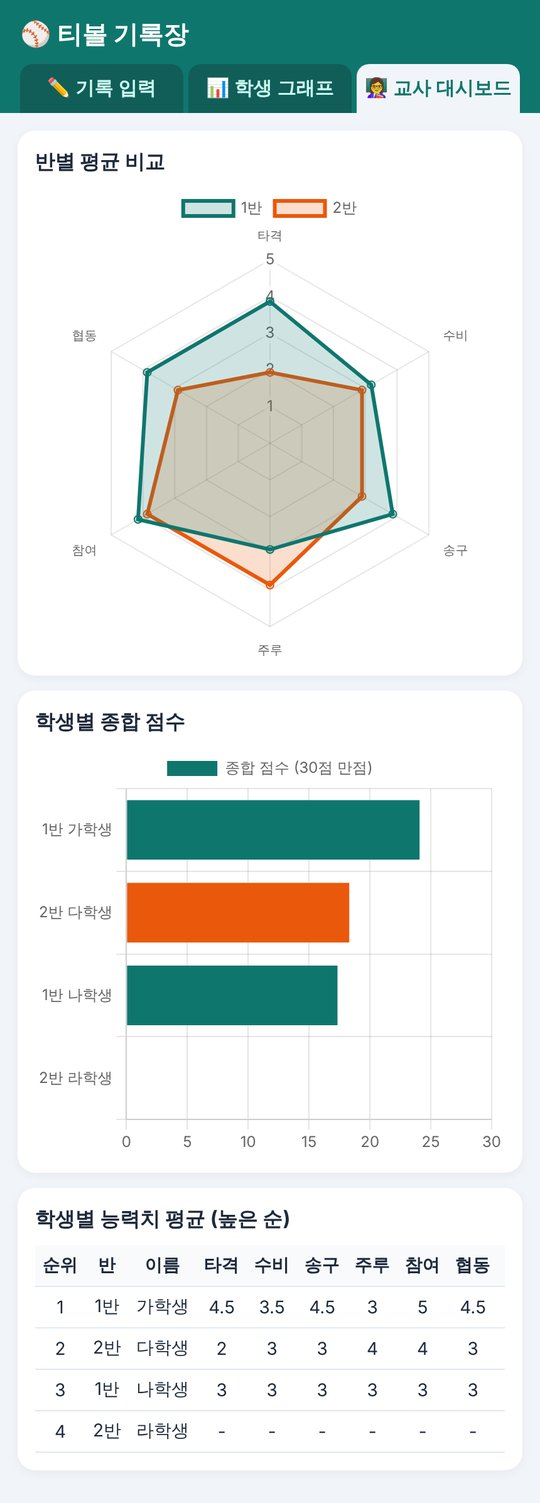
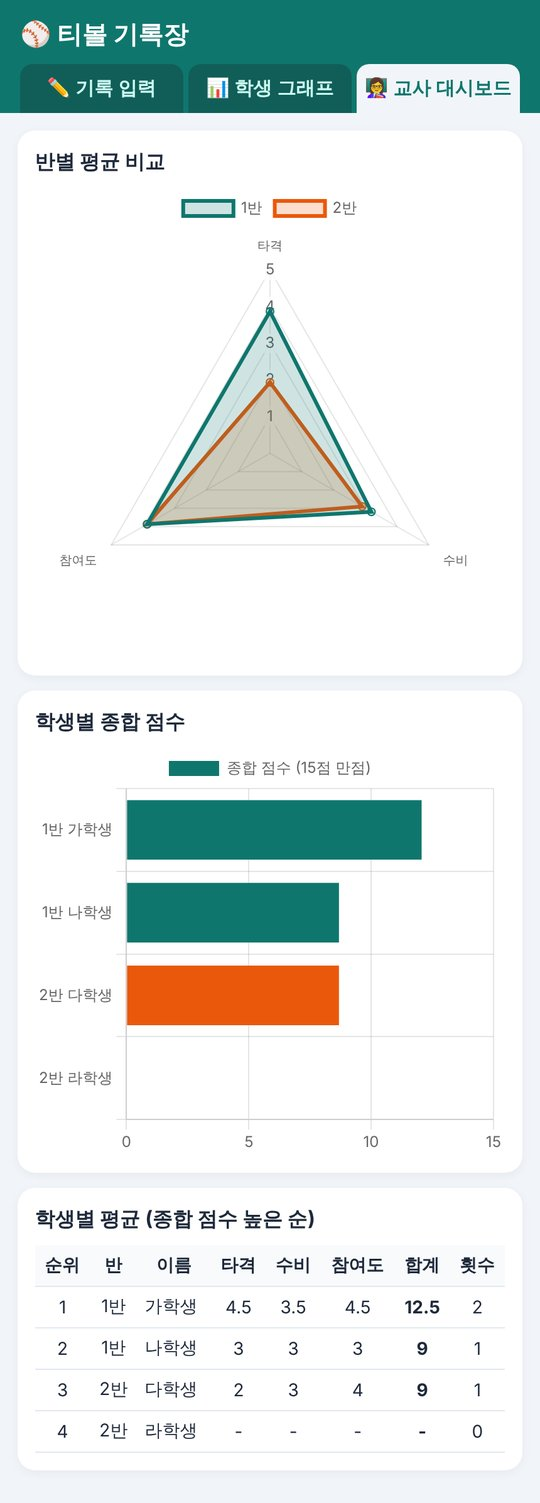
종합 실습 조건 변경 반영: 기본 2개·타격/수비/참여도 — 채점 기준·배점(40+20+20+20), 모범 프롬프트·코드·화면
Claude-Session: https://claude.ai/code/session_01G9uCcbWnGCZD8tybkARKVP

diff --git a/vibe-site/vercel-site/api/review.js b/vibe-site/vercel-site/api/review.js
@@ -6,26 +6,23 @@
 const { limited, cors, bodyOf } = require('./_groq');
 const { askGemini } = require('./_gemini');
 
+// 배점: 기본 40 (2개 × 20) + 심화 1·2·3 각 20 (2개 × 10) = 100점. 부분 통과는 절반.
 const RUBRIC = [
-  { level: 'basic', id: 'b1', text: '명렬표(반·번호·이름) 시트에서 학생 목록을 읽어, 이름을 타이핑하지 않고 선택해서 기록한다',
-    rule: 'pass: 서버가 시트에서 명단을 읽어(getValues 등) 화면이 반·학생을 단추/목록으로 고르게 함. partial: 명단을 코드에 직접 적어 두었거나, 고르기는 되지만 반 구분이 없음. fail: 이름을 글자로 입력함' },
-  { level: 'basic', id: 'b2', text: '입력한 기록이 구글 시트에 저장되어 사라지지 않고 계속 쌓인다',
-    rule: 'pass: 저장 함수가 appendRow/setValues 로 새 줄을 더함(덮어쓰지 않음). partial: 저장은 되지만 같은 칸을 덮어써 누적이 안 됨. fail: 시트에 쓰지 않음(변수·localStorage 만)' },
-  { level: 'basic', id: 'b3', text: '두 선생님이 각자 접속해도 같은 기록을 본다 (브라우저 저장소가 아니라 시트에 저장·조회)',
-    rule: 'pass: 화면이 기록을 서버(시트)에서 다시 읽어 옴. partial: 시트에 쓰기는 하지만 화면은 자기 브라우저에 입력한 것만 보여 줌. fail: localStorage·변수에만 둠' },
-  { level: 'basic', id: 'b4', text: '웹앱 링크 하나로 접속할 수 있다 (doGet 으로 화면 제공, google.script.run 으로 연결)',
-    rule: 'pass: doGet 이 HtmlService 로 index 를 돌려주고 화면이 google.script.run 으로 서버 함수를 부름. partial: 둘 중 하나가 빠졌거나 이름이 맞지 않음(없는 함수 호출). fail: doGet 없음' },
-  { level: 'd1', id: 'd1a', text: '학생 이름을 누르면 그 학생의 누적 기록이 그래프로 표시된다',
-    rule: 'pass: 학생을 고르면 그 학생의 여러 회 기록(평균·합계·추이)을 그래프로 그림. partial: 그래프는 있으나 마지막 한 번 기록만 보이거나 학생별로 나뉘지 않음. fail: 학생별 그래프 없음' },
-  { level: 'd1', id: 'd1b', text: '방사형(레이더) 그래프로 능력치를 표현한다 (막대·선 그래프면 부분 인정)',
+  { level: 'basic', id: 'b1', pts: 20, text: '명렬표(반·번호·이름)의 학생을 선택하고 수업 중 기록을 입력할 수 있다',
+    rule: 'pass: 서버가 시트에서 명단을 읽어(getValues 등) 화면이 반·학생을 단추/목록으로 고르게 하고, 기록을 입력해 저장 함수로 보냄(웹앱으로 열리고 google.script.run 연결이 동작). partial: 명단을 코드에 직접 적어 두었거나, 반 구분이 없거나, 화면이 부르는 서버 함수가 없어 동작하지 않음. fail: 이름을 글자로 입력함 / 입력 화면 없음' },
+  { level: 'basic', id: 'b2', pts: 20, text: '입력한 기록이 사라지지 않고 한곳(구글 시트)에 계속 쌓인다',
+    rule: 'pass: 저장 함수가 appendRow/setValues 로 시트에 새 줄을 더함(덮어쓰지 않음). partial: 저장은 되지만 같은 칸을 덮어써 누적이 안 됨. fail: 시트에 쓰지 않음(변수·localStorage 만)' },
+  { level: 'd1', id: 'd1a', pts: 10, text: '학생 이름을 누르면 그 학생의 누적 기록이 그래프로 표시된다',
+    rule: 'pass: 학생을 고르면 시트에 쌓인 그 학생의 여러 회 기록(평균·합계·추이)을 그래프로 그림. partial: 그래프는 있으나 마지막 한 번 기록만 보이거나 학생별로 나뉘지 않음. fail: 학생별 그래프 없음' },
+  { level: 'd1', id: 'd1b', pts: 10, text: '방사형(레이더) 그래프로 능력치를 표현한다 (막대·선 그래프면 부분 인정)',
     rule: "pass: type 'radar' 등 방사형 그래프. partial: 막대·선 등 다른 그래프. fail: 그래프 없음" },
-  { level: 'd2', id: 'd2a', text: '교사 전용 화면(탭·모드·별도 화면)이 있다',
+  { level: 'd2', id: 'd2a', pts: 10, text: '교사 전용 화면(탭·모드·별도 화면)이 있다',
     rule: 'pass: 입력 화면과 구분된 교사용 탭·화면·모드가 있음. partial: 같은 화면 아래에 분석이 붙어 있을 뿐 따로 구분되지 않음. fail: 없음' },
-  { level: 'd2', id: 'd2b', text: '반별 비교, 학생별 비교 등 분석(표·그래프·순위)이 가능하다',
-    rule: 'pass: 반별 비교와 학생별 비교(순위·표·그래프)가 둘 다 있음. partial: 둘 중 하나만 있거나 기록 목록을 그대로 나열만 함. fail: 없음' },
-  { level: 'd3', id: 'd3a', text: 'Gemini 등 AI API 를 불러 학생마다 맞는 피드백을 만든다',
-    rule: 'pass: UrlFetchApp 으로 AI API 를 부르고, 그 학생의 기록(점수)을 프롬프트에 넣어 피드백을 받아 화면에 보여 줌. partial: AI 를 부르지만 학생 기록을 넣지 않아 모두 같은 피드백이거나 화면에 안 보임. fail: AI 호출 없음' },
-  { level: 'd3', id: 'd3b', text: 'API 키를 코드에 쓰지 않고 스크립트 속성 등에서 꺼내며, 학생 이름 같은 개인정보는 AI 에게 보내지 않는다',
+  { level: 'd2', id: 'd2b', pts: 10, text: '반별 비교, 학생별 비교를 표·그래프·순위로 나타낸다',
+    rule: 'pass: 반별 비교와 학생별 비교가 둘 다 있고, 표·그래프·순위 중 둘 이상으로 나타냄. partial: 반별·학생별 중 하나만 있거나, 표·그래프·순위 중 하나뿐이거나, 기록 목록을 그대로 나열만 함. fail: 없음' },
+  { level: 'd3', id: 'd3a', pts: 10, text: '학생의 타격·수비·참여도 기록으로 AI(Gemini API)가 피드백을 준다',
+    rule: 'pass: 타격·수비·참여도를 기록 항목으로 쓰고, UrlFetchApp 으로 AI API 를 불러 그 학생의 타격·수비·참여도 기록(점수)을 프롬프트에 넣어 받은 피드백을 화면에 보여 줌. partial: AI 는 부르지만 세 항목 중 일부만 쓰거나, 학생 기록을 넣지 않아 모두 같은 피드백이거나, 화면에 안 보임. fail: AI 호출 없음' },
+  { level: 'd3', id: 'd3b', pts: 10, text: 'API 키를 코드에 쓰지 않고 스크립트 속성에서 꺼내며, 학생 이름 같은 개인정보는 AI 에게 보내지 않는다',
     rule: 'pass: 키를 getScriptProperties().getProperty 로 꺼내고, AI 에게 보내는 글에 이름이 들어가지 않음. partial: 키는 속성에서 꺼내지만 이름을 함께 보냄. fail: 키를 코드에 직접 적음, 또는 AI 호출 없음' },
 ];
 
@@ -49,6 +46,7 @@ function facts(gs, html, rawAll) {
     aiCall: /UrlFetchApp\.fetch/.test(gs) && /generativelanguage\.googleapis\.com|gemini|openai|groq|anthropic/i.test(gs),
     scriptProps: /getScriptProperties\s*\(\s*\)[\s\S]{0,120}getProperty/.test(gs),
     hardKey: KEY_RE.test(rawAll),
+    items3: ['타격', '수비', '참여'].filter((w) => t.indexOf(w) >= 0),
   };
   KEY_RE.lastIndex = 0;
   // 화면이 부르는 서버 함수가 code.gs 에 실제로 있는지 — google.script.run.a(..).b(..).함수(..) 사슬의 마지막 이름
@@ -79,6 +77,7 @@ function factLines(f) {
     `시트 읽기(getValues 등): ${yn(f.readSheet)} / 시트 쓰기(appendRow·setValues): ${yn(f.writeSheet)} / 브라우저 저장소(localStorage 등): ${yn(f.browserStore)}`,
     `이름을 글자로 입력하는 칸으로 보이는 것: ${yn(f.textNameInput)}`,
     `그래프 도구: ${yn(f.chart)} / 방사형(radar) 표시: ${yn(f.radar)} / 교사·대시보드 관련 글자: ${yn(f.teacherView)}`,
+    `기록 항목 글자(타격·수비·참여도) 중 코드에 있는 것: ${f.items3.join('·') || '없음'}`,
     `AI API 호출(UrlFetchApp + AI 주소): ${yn(f.aiCall)} / 스크립트 속성에서 키 꺼내기: ${yn(f.scriptProps)} / 코드에 적힌 API 키: ${yn(f.hardKey)}`,
   ].join('\n');
 }
@@ -87,14 +86,15 @@ function factLines(f) {
 function caps(f) {
   const c = {};
   const cap = (id, max, why) => { if (!c[id] || rankOf(max) < rankOf(c[id].max)) c[id] = { max, why }; };
-  if (!f.doGet) cap('b4', 'fail', 'code.gs 에 doGet 함수가 없어요.');
-  else if (!f.scriptRun || !f.htmlService) cap('b4', 'partial', '화면 제공(HtmlService) 또는 google.script.run 연결이 보이지 않아요.');
-  if (f.missingFns.length) cap('b4', 'partial', `화면이 부르는 ${f.missingFns.join(', ')} 함수가 code.gs 에 없어요.`);
-  if (!f.writeSheet) { cap('b2', 'fail', '시트에 쓰는 코드(appendRow·setValues)가 없어요.'); cap('b3', 'fail', '시트에 저장하지 않아서 다른 선생님이 볼 수 없어요.'); }
-  if (!f.readSheet) { cap('b1', 'partial', '시트에서 명단을 읽는 코드(getValues)가 없어요.'); cap('b3', 'partial', '시트에서 기록을 다시 읽어 오는 코드가 보이지 않아요.'); }
+  if (!f.doGet) cap('b1', 'partial', 'code.gs 에 doGet 함수가 없어 웹앱으로 열리지 않아요.');
+  else if (!f.scriptRun || !f.htmlService) cap('b1', 'partial', '화면 제공(HtmlService) 또는 google.script.run 연결이 보이지 않아요.');
+  if (f.missingFns.length) cap('b1', 'partial', `화면이 부르는 ${f.missingFns.join(', ')} 함수가 code.gs 에 없어요.`);
+  if (!f.readSheet) cap('b1', 'partial', '시트에서 명단을 읽는 코드(getValues)가 없어요.');
+  if (!f.writeSheet) cap('b2', 'fail', '시트에 쓰는 코드(appendRow·setValues)가 없어요.');
   if (!f.chart) { cap('d1a', 'fail', '그래프를 그리는 코드가 없어요.'); cap('d1b', 'fail', '그래프를 그리는 코드가 없어요.'); }
   else if (!f.radar) cap('d1b', 'partial', '방사형(radar) 그래프가 아니에요.');
   if (!f.aiCall) { cap('d3a', 'fail', 'AI API 를 부르는 코드(UrlFetchApp)가 없어요.'); cap('d3b', 'fail', 'AI API 를 부르지 않아요.'); }
+  else if (f.items3.length < 3) cap('d3a', 'partial', `기록 항목에 ${['타격', '수비', '참여'].filter((w) => f.items3.indexOf(w) < 0).join('·')} 이(가) 보이지 않아요.`);
   if (f.hardKey) cap('d3b', 'fail', '코드에 API 키가 그대로 적혀 있어요.');
   else if (f.aiCall && !f.scriptProps) cap('d3b', 'partial', '키를 스크립트 속성에서 꺼내는 코드가 보이지 않아요.');
   return c;
@@ -106,45 +106,42 @@ function rankOf(s) { return s === 'pass' ? 2 : s === 'partial' ? 1 : 0; }
 function staticGrade(f) {
   const ready = f.doGet && f.htmlService && f.scriptRun && !f.missingFns.length;
   const st = {
-    b1: f.readSheet && !f.textNameInput ? 'pass' : f.textNameInput && !f.readSheet ? 'fail' : 'partial',
+    b1: f.readSheet && !f.textNameInput && ready ? 'pass' : f.textNameInput && !f.readSheet ? 'fail' : 'partial',
     b2: f.writeSheet ? 'pass' : 'fail',
-    b3: f.writeSheet && f.readSheet ? 'pass' : f.writeSheet ? 'partial' : 'fail',
-    b4: ready ? 'pass' : f.doGet ? 'partial' : 'fail',
     d1a: f.chart ? 'pass' : 'fail',
     d1b: f.radar && f.chart ? 'pass' : f.chart ? 'partial' : 'fail',
     d2a: f.teacherView ? 'pass' : 'fail',
     d2b: f.teacherView && f.chart ? 'pass' : f.teacherView ? 'partial' : 'fail',
-    d3a: f.aiCall ? 'pass' : 'fail',
+    d3a: f.aiCall && f.items3.length === 3 ? 'pass' : f.aiCall ? 'partial' : 'fail',
     d3b: f.aiCall && f.scriptProps && !f.hardKey ? 'pass' : f.aiCall && !f.hardKey ? 'partial' : 'fail',
   };
   const why = {
-    b1: f.readSheet ? '시트에서 값을 읽는 코드(getValues)가 있어요.' : '시트에서 명단을 읽는 코드가 보이지 않아요.',
+    b1: !ready ? '웹앱 화면 연결(doGet·google.script.run)이 덜 됐어요.' : f.readSheet ? '시트에서 명단을 읽고 화면과 연결돼 있어요.' : '시트에서 명단을 읽는 코드가 보이지 않아요.',
     b2: f.writeSheet ? '시트에 쓰는 코드(appendRow·setValues)가 있어요.' : '시트에 쓰는 코드가 없어요.',
-    b3: f.writeSheet && f.readSheet ? '시트에 저장하고 다시 읽어 와요.' : '시트 저장·조회 중 하나가 보이지 않아요.',
-    b4: ready ? 'doGet 과 google.script.run 연결이 있어요.' : '화면 제공(doGet·HtmlService) 또는 연결(google.script.run)이 빠졌어요.' + (f.missingFns.length ? ` (code.gs 에 없는 함수: ${f.missingFns.join(', ')})` : ''),
     d1a: f.chart ? '그래프를 그리는 코드가 있어요.' : '그래프 코드가 없어요.',
     d1b: f.radar ? '방사형(radar) 그래프예요.' : f.chart ? '그래프는 있지만 방사형이 아니에요.' : '그래프 코드가 없어요.',
     d2a: f.teacherView ? '교사용·대시보드 화면 글자가 있어요.' : '교사용 화면이 보이지 않아요.',
     d2b: f.teacherView && f.chart ? '교사 화면과 그래프가 있어요.' : '비교 분석 화면이 뚜렷하지 않아요.',
-    d3a: f.aiCall ? 'UrlFetchApp 으로 AI API 를 불러요.' : 'AI API 를 부르는 코드가 없어요.',
+    d3a: !f.aiCall ? 'AI API 를 부르는 코드가 없어요.' : f.items3.length === 3 ? '타격·수비·참여도와 AI 호출이 있어요.' : '기록 항목 중 ' + ['타격', '수비', '참여'].filter((w) => f.items3.indexOf(w) < 0).join('·') + ' 이(가) 안 보여요.',
     d3b: f.hardKey ? '코드에 API 키가 그대로 적혀 있어요.' : f.scriptProps ? '키를 스크립트 속성에서 꺼내요.' : f.aiCall ? '키를 스크립트 속성에서 꺼내는 코드가 보이지 않아요.' : 'AI API 를 부르지 않아요.',
   };
-  return RUBRIC.map((r) => ({ id: r.id, level: r.level, text: r.text, status: st[r.id], reason: '🔎 ' + why[r.id] }));
+  return RUBRIC.map((r) => ({ id: r.id, level: r.level, text: r.text, pts: r.pts, status: st[r.id], reason: '🔎 ' + why[r.id] }));
 }
 
-// 점수 — 기준 10개 × 10점 = 100점 (통과 10, 부분 5, 미흡 0)
+// 점수 — 기준마다 배점(pts), 통과는 전부·부분은 절반·미흡은 0 → 합계 100점
 function scoreOf(items) {
-  const pt = (s) => (s === 'pass' ? 10 : s === 'partial' ? 5 : 0);
+  const ptsOf = (id) => (RUBRIC.find((r) => r.id === id) || {}).pts || 10;
+  const pt = (i) => (i.status === 'pass' ? ptsOf(i.id) : i.status === 'partial' ? ptsOf(i.id) / 2 : 0);
   const by = {};
-  items.forEach((i) => { by[i.level] = by[i.level] || { got: 0, max: 0 }; by[i.level].got += pt(i.status); by[i.level].max += 10; });
-  return { score: items.reduce((a, i) => a + pt(i.status), 0), max: items.length * 10, byLevel: by };
+  items.forEach((i) => { by[i.level] = by[i.level] || { got: 0, max: 0 }; by[i.level].got += pt(i); by[i.level].max += ptsOf(i.id); });
+  return { score: items.reduce((a, i) => a + pt(i), 0), max: RUBRIC.reduce((a, r) => a + r.pts, 0), byLevel: by };
 }
 
 function makePrompt(gs, html, f) {
   return `너는 고등학교 체육 교사 연수의 채점관이야. 연수생(체육 교사)이 AI 에게 부탁해 만든 구글 앱스크립트 웹앱 코드를 읽고,
 기준마다 코드가 그 기능을 "실제로 동작하게" 구현했는지 엄격하고 정확하게 판단해.
 
-[과제] 티볼(야구) 단원 두 반의 기록을 수업 중 폰으로 입력해 한곳에 쌓는 웹앱. 기록 항목(타격·수비·참여도 등)은 연수생이 직접 설계한다.
+[과제] 티볼(야구) 단원 두 반의 기록을 수업 중 폰으로 입력해 한곳(구글 시트)에 쌓는 웹앱. 기록 항목은 타격·수비·참여도.
 명렬표 시트 열: 반, 번호, 이름 (1반·2반 각 5명). 시트 탭 이름은 사람마다 다를 수 있다.
 
 [기준] id: 내용 — 판정 기준
@@ -164,7 +161,7 @@ ${factLines(f)}
   마지막 줄에 "code.gs 와 index.html 전체를 생략 없이 각각 다른 코드블록으로 다시 줘"를 붙여. 모든 기준이 pass 면 더 다듬을 점 하나를 부탁해.
 
 [출력] 아래 JSON 만:
-{"items":[{"id":"b1","status":"pass|partial|fail","evidence":"근거가 된 코드 한 줄(80자 이내, 없으면 빈칸)","reason":"..."}, ... 10개 모두], "record_fields":"앱이 기록하는 항목을 짧게(예: 타격, 수비, 참여도)", "strengths":["..."], "feedback":"...", "next_prompt":"..."}
+{"items":[{"id":"b1","status":"pass|partial|fail","evidence":"근거가 된 코드 한 줄(80자 이내, 없으면 빈칸)","reason":"..."}, ... 8개 모두], "record_fields":"앱이 기록하는 항목을 짧게(예: 타격, 수비, 참여도)", "strengths":["..."], "feedback":"...", "next_prompt":"..."}
 
 ===== code.gs =====
 ${gs}
@@ -182,7 +179,7 @@ function clean(out, c) {
     let status = ok[it.status] ? it.status : 'partial';
     let reason = String(it.reason || 'AI가 판단을 남기지 않았어요.').slice(0, 300);
     if (c[r.id] && rankOf(status) > rankOf(c[r.id].max)) { status = c[r.id].max; reason = '🔎 ' + c[r.id].why + ' ' + reason; }
-    return { id: r.id, level: r.level, text: r.text, status, reason, evidence: String(it.evidence || '').slice(0, 120) };
+    return { id: r.id, level: r.level, text: r.text, pts: r.pts, status, reason, evidence: String(it.evidence || '').slice(0, 120) };
   });
   return {
     items,
@@ -225,3 +222,4 @@ module.exports.caps = caps;
 module.exports.clean = clean;
 module.exports.staticGrade = staticGrade;
 module.exports.scoreOf = scoreOf;
+module.exports.factLines = factLines;
